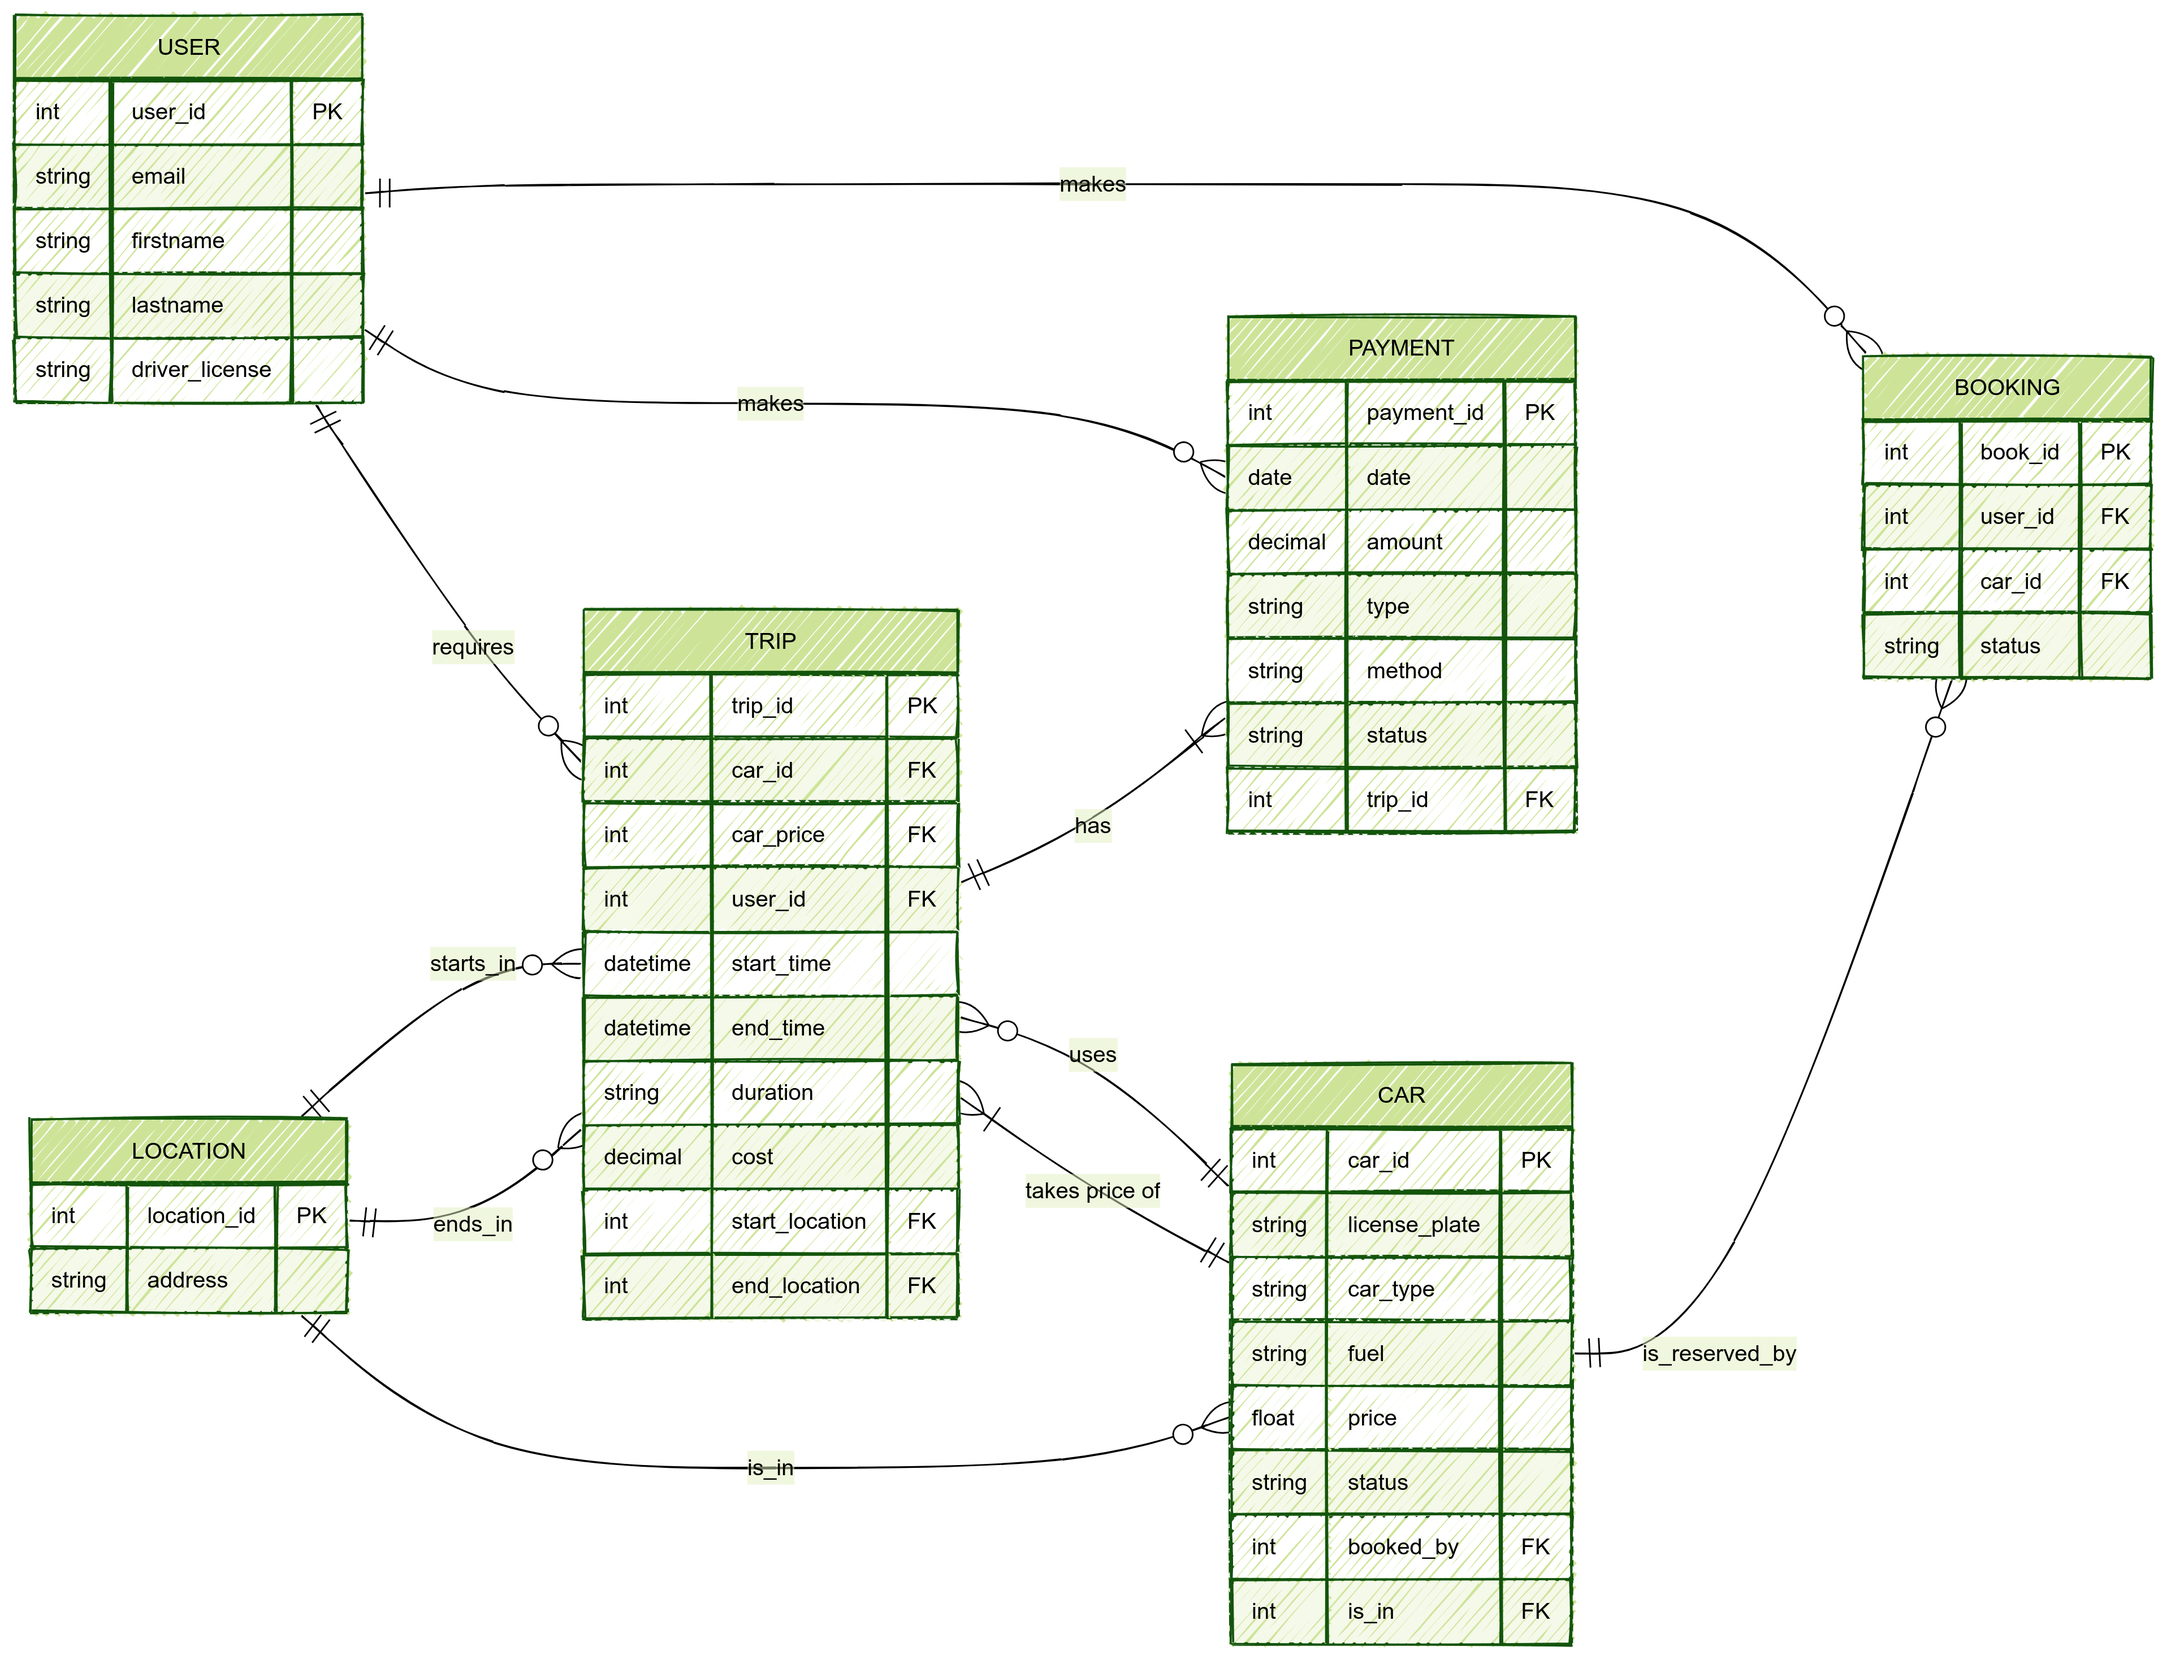
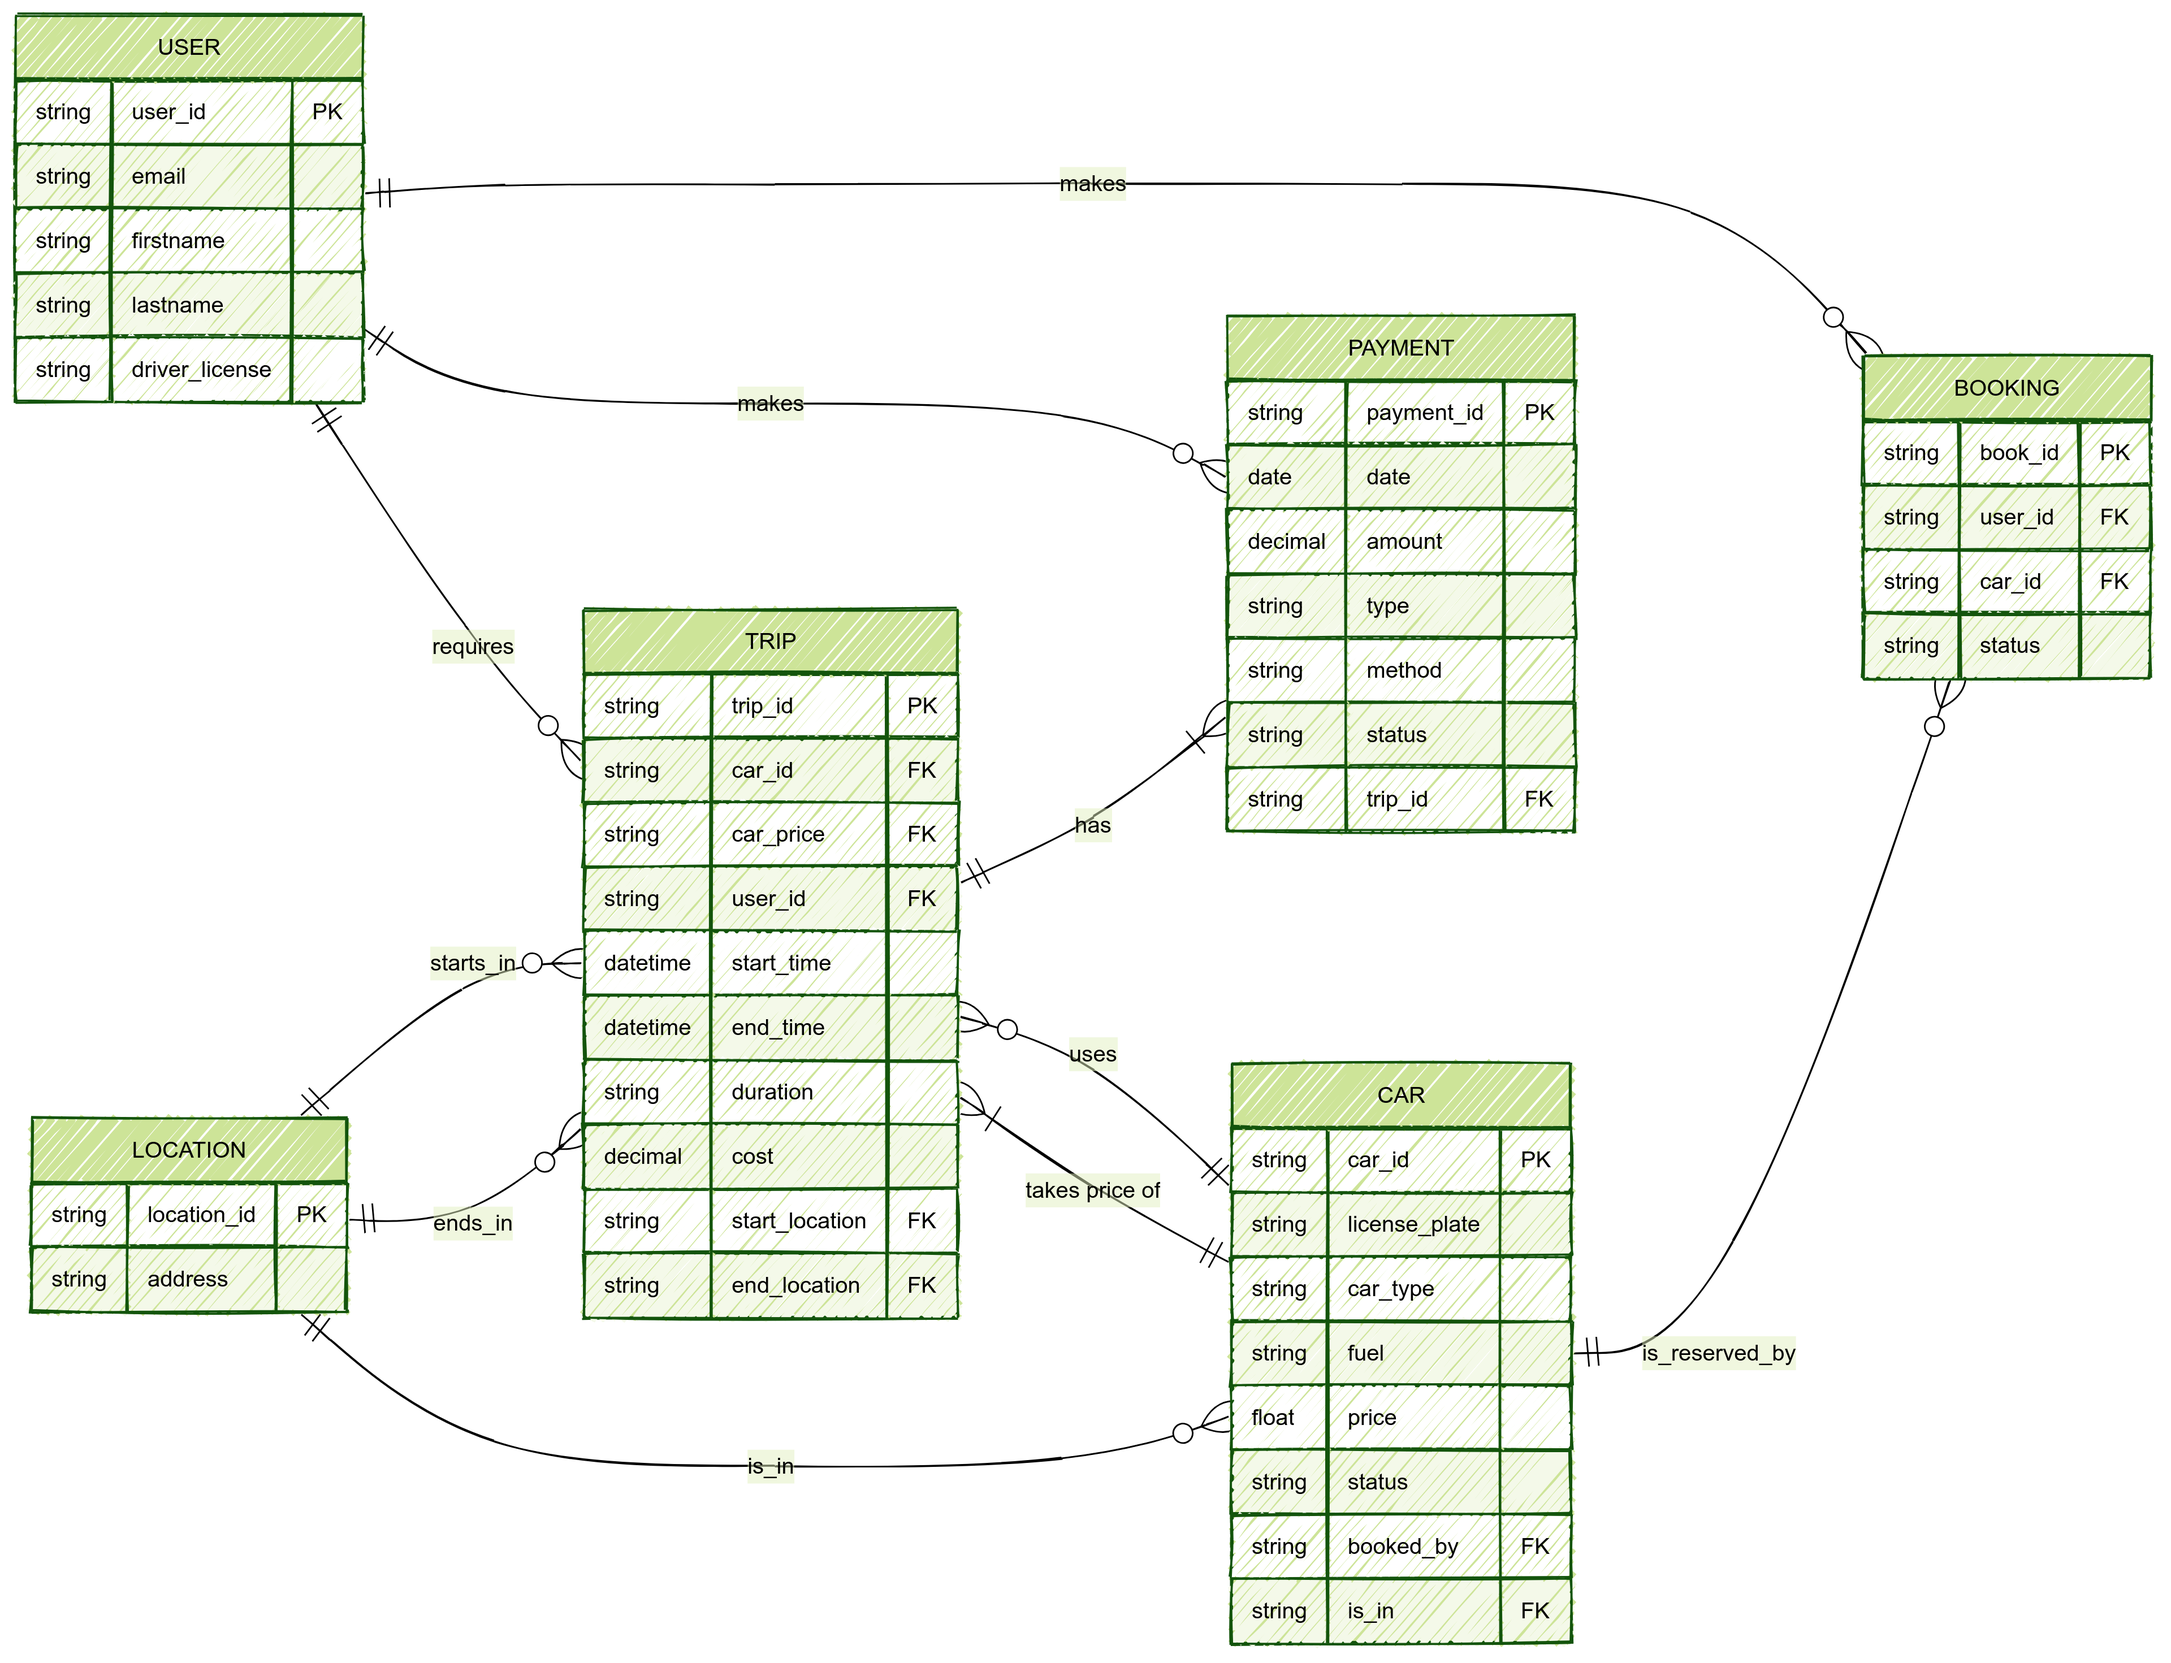
fix(Lab1): fix entity types

diff --git a/Lab1/schema.ts b/Lab1/schema.ts
@@ -1,6 +1,6 @@
 class User {
   constructor(
-    public user_id: number,
+    public user_id: string,
     public email: string,
     public first_name: string,
     public last_name: string,
@@ -10,19 +10,19 @@ class User {
 
 class Car {
   constructor(
-    public car_id: number,
+    public car_id: string,
     public license_plate: string,
     public car_type: string,
     public fuel: string,
     public price: number,
     public status: string,
-    public is_in: CarLocation,
-    public booked_by: User | null = null
+    public is_in: CarLocation["location_id"],
+    public booked_by: User["user_id"] | null = null
   ) {}
 }
 
 class CarLocation {
-  constructor(public location_id: number, public address: string) {}
+  constructor(public location_id: string, public address: string) {}
 }
 
 class Trip {
@@ -30,14 +30,14 @@ class Trip {
   public cost: number;
 
   constructor(
-    public trip_id: number,
+    public trip_id: string,
     public start_time: Date,
     public end_time: Date,
-    public start_location: CarLocation,
-    public end_location: CarLocation,
-    public car_id: Car,
-    public car_price: Car['price'],
-    public user_id: User,
+    public start_location: CarLocation["location_id"],
+    public end_location: CarLocation["location_id"],
+    public car_id: Car["car_id"],
+    public car_price: Car["price"],
+    public user_id: User["user_id"]
   ) {
     const milliseconds = this.end_time.getTime() - this.start_time.getTime();
     const minutes = Math.ceil(milliseconds / (1000 * 60));
@@ -51,22 +51,22 @@ class Trip {
 
 class Booking {
   constructor(
-    public book_id: number,
+    public book_id: string,
     public status: string,
-    public user: User,
-    public car: Car,
+    public user_id: User["user_id"],
+    public car_id: Car["car_id"]
   ) {}
 }
 
 class Payment {
   constructor(
-    public payment_id: number,
+    public payment_id: string,
     public date: Date,
     public amount: number,
     public type: string,
     public method: string,
     public status: string,
-    public trip: Trip,
-    public paid_by: User
+    public trip: Trip["trip_id"],
+    public paid_by: User["user_id"]
   ) {}
 }

diff --git a/Lab1/mermaid.md b/Lab1/mermaid.md
@@ -2,52 +2,52 @@
 erDiagram
 direction LR
 USER {
-int user_id PK
+string user_id PK
 string email
 string firstname
 string lastname
 string driver_license
 }
 CAR {
-int car_id PK
+string car_id PK
 string license_plate
 string car_type
 string fuel
 float price
 string status
-int booked_by FK
-int is_in FK
+string booked_by FK
+string is_in FK
 }
 LOCATION {
-int location_id PK
+string location_id PK
 string address
 }
 TRIP {
-int trip_id PK
-int car_id FK
-int car_price FK
-int user_id FK
+string trip_id PK
+string car_id FK
+string car_price FK
+string user_id FK
 datetime start_time
 datetime end_time
 string duration
 decimal cost
-int start_location FK
-int end_location FK
+string start_location FK
+string end_location FK
 }
 BOOKING {
-int book_id PK
-int user_id FK
-int car_id FK
+string book_id PK
+string user_id FK
+string car_id FK
 string status
 }
 PAYMENT {
-int payment_id PK
+string payment_id PK
 date date
 decimal amount
 string type
 string method
 string status
-int trip_id FK
+string trip_id FK
 }
 
     USER||--o{BOOKING:"makes"
@@ -66,52 +66,52 @@ int trip_id FK
 erDiagram
 direction LR
 USER {
-int user_id PK
+string user_id PK
 string email
 string firstname
 string lastname
 string driver_license
 }
 CAR {
-int car_id PK
+string car_id PK
 string license_plate
 string car_type
 string fuel
 float price
 string status
-int booked_by FK
-int is_in FK
+string booked_by FK
+string is_in FK
 }
 LOCATION {
-int location_id PK
+string location_id PK
 string address
 }
 TRIP {
-int trip_id PK
-int car_id FK
-int car_price FK
-int user_id FK
+string trip_id PK
+string car_id FK
+string car_price FK
+string user_id FK
 datetime start_time
 datetime end_time
 string duration
 decimal cost
-int start_location FK
-int end_location FK
+string start_location FK
+string end_location FK
 }
 BOOKING {
-int book_id PK
-int user_id FK
-int car_id FK
+string book_id PK
+string user_id FK
+string car_id FK
 string status
 }
 PAYMENT {
-int payment_id PK
+string payment_id PK
 date date
 decimal amount
 string type
 string method
 string status
-int trip_id FK
+string trip_id FK
 }
 
     USER||--o{BOOKING:"makes"
